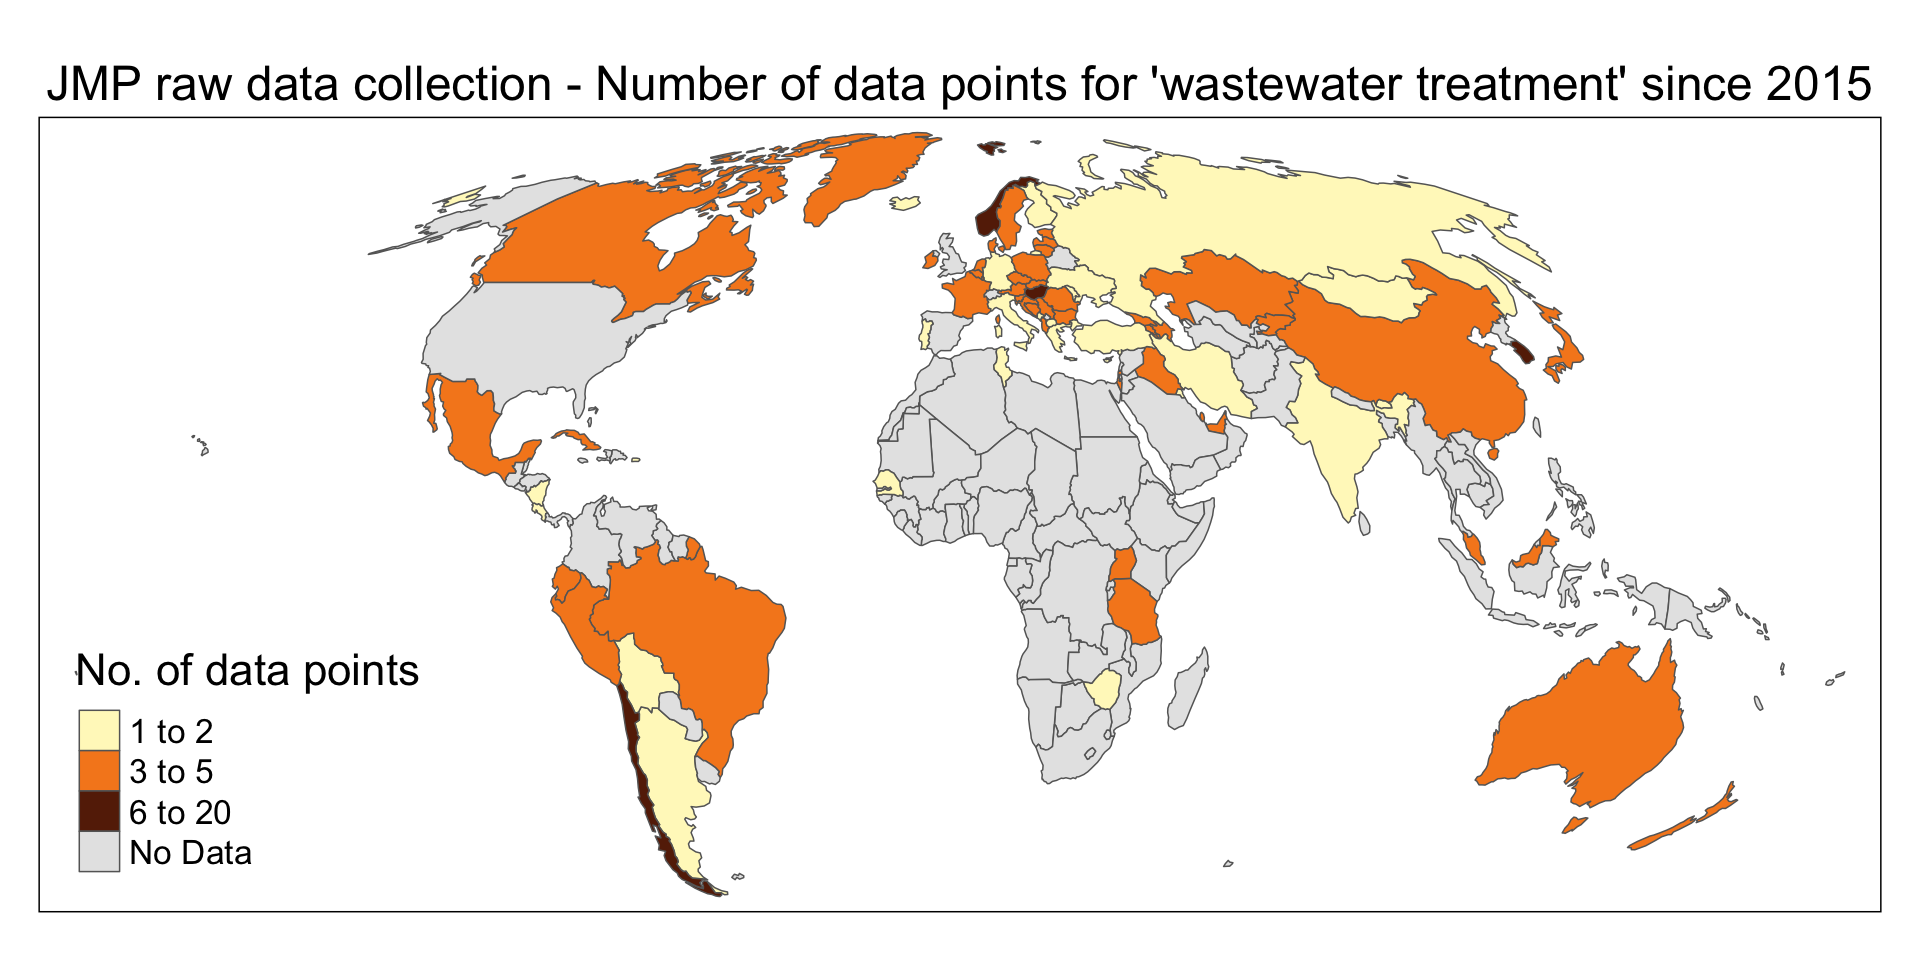
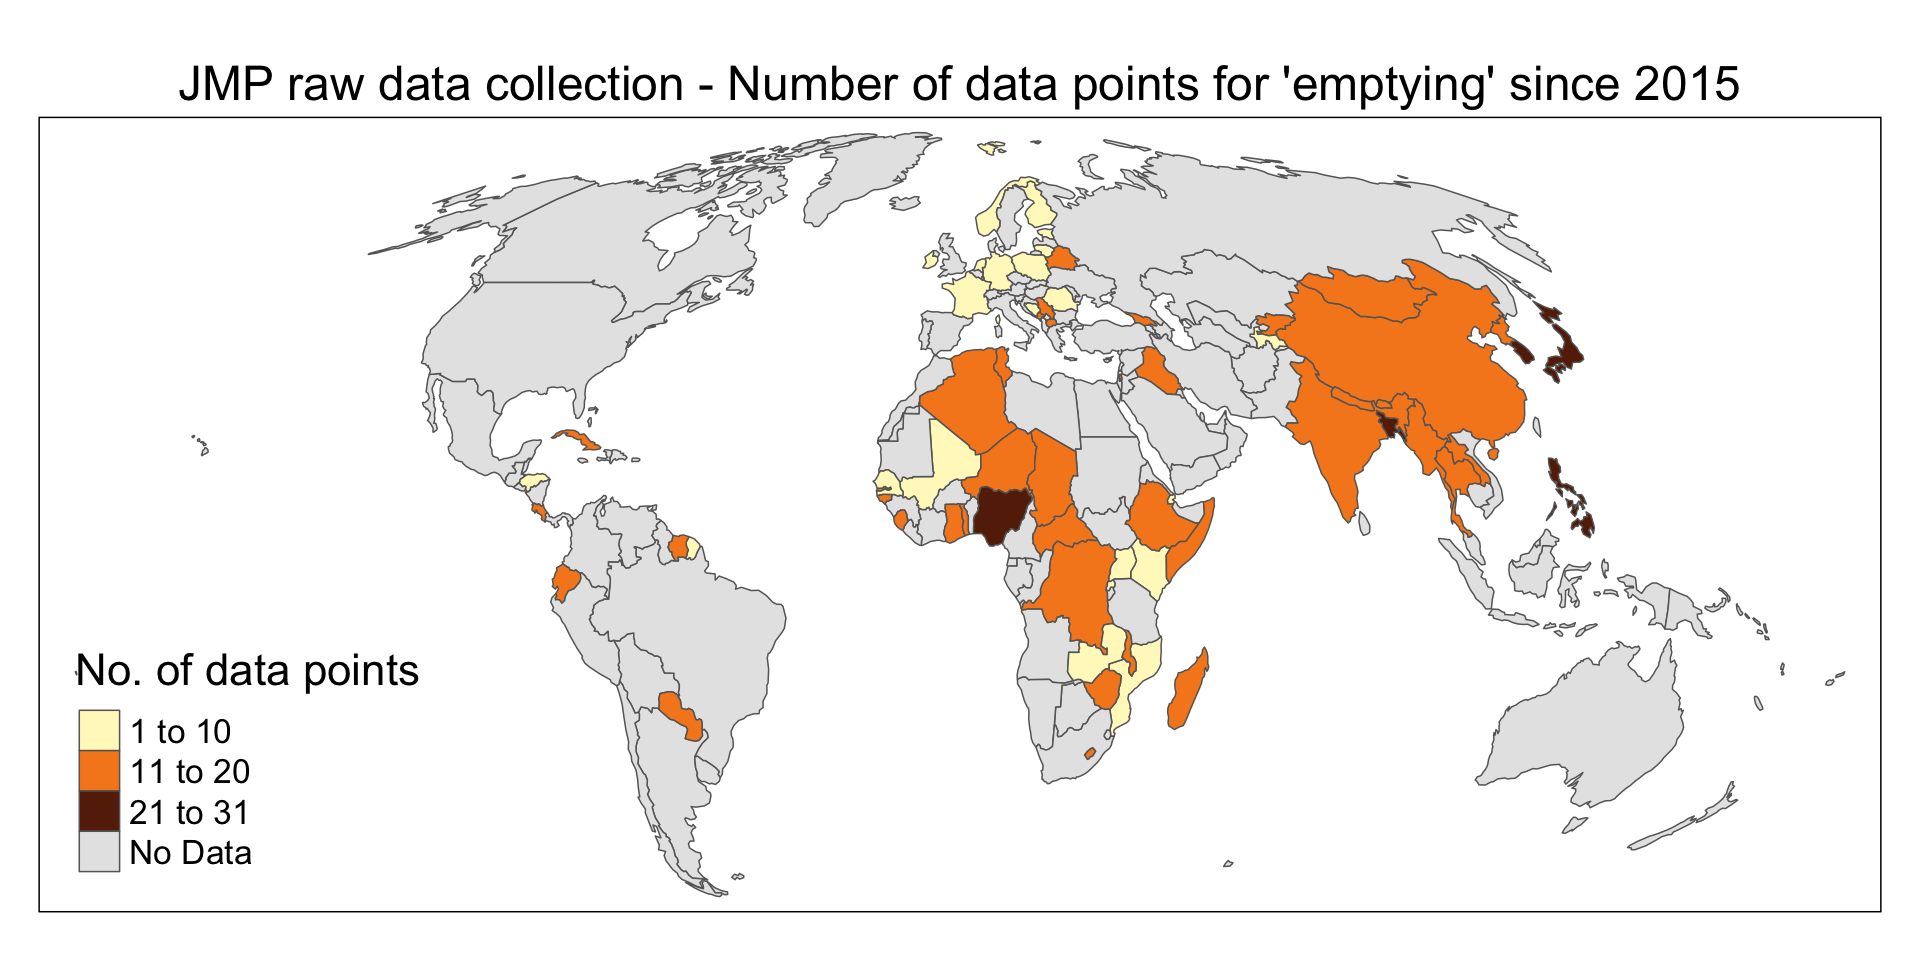
Update slides

diff --git a/doc/slides/slides-jmp-raw-data-package.html b/doc/slides/slides-jmp-raw-data-package.html
@@ -578,6 +578,68 @@
 <li>Great potential for unforeseen use cases enabled by making the data readily accessible (research, teaching, joining with other data, etc.)</li>
 </ol>
 </section>
+<section id="section" class="slide level2">
+<h2></h2>
+
+<img data-src="slides-jmp-raw-data-package_files/figure-revealjs/unnamed-chunk-7-1.png" width="960" class="r-stretch"></section>
+<section id="section-1" class="slide level2">
+<h2></h2>
+<div class="cell">
+<div class="cell-output-display">
+<table>
+<caption>JMP raw data collection: Number of data points for ‘emptying’ since 2015</caption>
+<thead>
+<tr class="header">
+<th style="text-align: left;">country</th>
+<th style="text-align: right;">n</th>
+</tr>
+</thead>
+<tbody>
+<tr class="odd">
+<td style="text-align: left;">Philippines</td>
+<td style="text-align: right;">62</td>
+</tr>
+<tr class="even">
+<td style="text-align: left;">Nigeria</td>
+<td style="text-align: right;">48</td>
+</tr>
+<tr class="odd">
+<td style="text-align: left;">Bangladesh</td>
+<td style="text-align: right;">40</td>
+</tr>
+<tr class="even">
+<td style="text-align: left;">Japan</td>
+<td style="text-align: right;">40</td>
+</tr>
+<tr class="odd">
+<td style="text-align: left;">South Korea</td>
+<td style="text-align: right;">32</td>
+</tr>
+<tr class="even">
+<td style="text-align: left;">Ethiopia</td>
+<td style="text-align: right;">20</td>
+</tr>
+<tr class="odd">
+<td style="text-align: left;">Niger</td>
+<td style="text-align: right;">20</td>
+</tr>
+<tr class="even">
+<td style="text-align: left;">Belarus</td>
+<td style="text-align: right;">16</td>
+</tr>
+<tr class="odd">
+<td style="text-align: left;">China</td>
+<td style="text-align: right;">16</td>
+</tr>
+<tr class="even">
+<td style="text-align: left;">Congo - Kinshasa</td>
+<td style="text-align: right;">16</td>
+</tr>
+</tbody>
+</table>
+</div>
+</div>
+</section>
 <section id="r-data-package---whats-next" class="slide level2">
 <h2>R Data Package - What’s next?</h2>
 <ul>
@@ -602,7 +664,7 @@
 <p>“Other ratios used for ‘basic’ indicators (RW1, RS1) are calculated using simple averages” - JMP Methodology, March 2018</p>
 </blockquote>
 </section>
-<section id="section" class="slide level2">
+<section id="section-2" class="slide level2">
 <h2></h2>
 <div class="cell">
 <div class="cell-output-display">
@@ -639,15 +701,15 @@
 </div>
 </div>
 </section>
-<section id="section-1" class="slide level2">
-<h2></h2>
-
-<img data-src="slides-jmp-raw-data-package_files/figure-revealjs/unnamed-chunk-8-1.png" width="960" class="r-stretch"></section>
-<section id="section-2" class="slide level2">
-<h2></h2>
-
-<img data-src="slides-jmp-raw-data-package_files/figure-revealjs/unnamed-chunk-9-1.png" width="960" class="r-stretch"></section>
 <section id="section-3" class="slide level2">
+<h2></h2>
+
+<img data-src="slides-jmp-raw-data-package_files/figure-revealjs/unnamed-chunk-10-1.png" width="960" class="r-stretch"></section>
+<section id="section-4" class="slide level2">
+<h2></h2>
+
+<img data-src="slides-jmp-raw-data-package_files/figure-revealjs/unnamed-chunk-11-1.png" width="960" class="r-stretch"></section>
+<section id="section-5" class="slide level2">
 <h2></h2>
 <div class="cell">
 <div class="cell-output-display">
@@ -704,11 +766,11 @@
 </div>
 </div>
 </section>
-<section id="section-4" class="slide level2">
+<section id="section-6" class="slide level2">
 <h2></h2>
 
-<img data-src="slides-jmp-raw-data-package_files/figure-revealjs/unnamed-chunk-11-1.png" width="960" class="r-stretch"></section>
-<section id="section-5" class="slide level2">
+<img data-src="slides-jmp-raw-data-package_files/figure-revealjs/unnamed-chunk-13-1.png" width="960" class="r-stretch"></section>
+<section id="section-7" class="slide level2">
 <h2></h2>
 <div class="cell">
 <div class="cell-output-display">
@@ -765,11 +827,11 @@
 </div>
 </div>
 </section>
-<section id="section-6" class="slide level2">
+<section id="section-8" class="slide level2">
 <h2></h2>
 
-<img data-src="slides-jmp-raw-data-package_files/figure-revealjs/unnamed-chunk-13-1.png" width="960" class="r-stretch"></section>
-<section id="section-7" class="slide level2">
+<img data-src="slides-jmp-raw-data-package_files/figure-revealjs/unnamed-chunk-15-1.png" width="960" class="r-stretch"></section>
+<section id="section-9" class="slide level2">
 <h2></h2>
 <div class="cell">
 <div class="cell-output-display">
@@ -826,11 +888,11 @@
 </div>
 </div>
 </section>
-<section id="section-8" class="slide level2">
+<section id="section-10" class="slide level2">
 <h2></h2>
 
-<img data-src="slides-jmp-raw-data-package_files/figure-revealjs/unnamed-chunk-15-1.png" width="960" class="r-stretch"></section>
-<section id="section-9" class="slide level2">
+<img data-src="slides-jmp-raw-data-package_files/figure-revealjs/unnamed-chunk-17-1.png" width="960" class="r-stretch"></section>
+<section id="section-11" class="slide level2">
 <h2></h2>
 <div class="cell">
 <div class="cell-output-display">
@@ -887,11 +949,11 @@
 </div>
 </div>
 </section>
-<section id="section-10" class="slide level2">
+<section id="section-12" class="slide level2">
 <h2></h2>
 
-<img data-src="slides-jmp-raw-data-package_files/figure-revealjs/unnamed-chunk-17-1.png" width="960" class="r-stretch"></section>
-<section id="section-11" class="slide level2">
+<img data-src="slides-jmp-raw-data-package_files/figure-revealjs/unnamed-chunk-19-1.png" width="960" class="r-stretch"></section>
+<section id="section-13" class="slide level2">
 <h2></h2>
 <div class="cell">
 <div class="cell-output-display">
